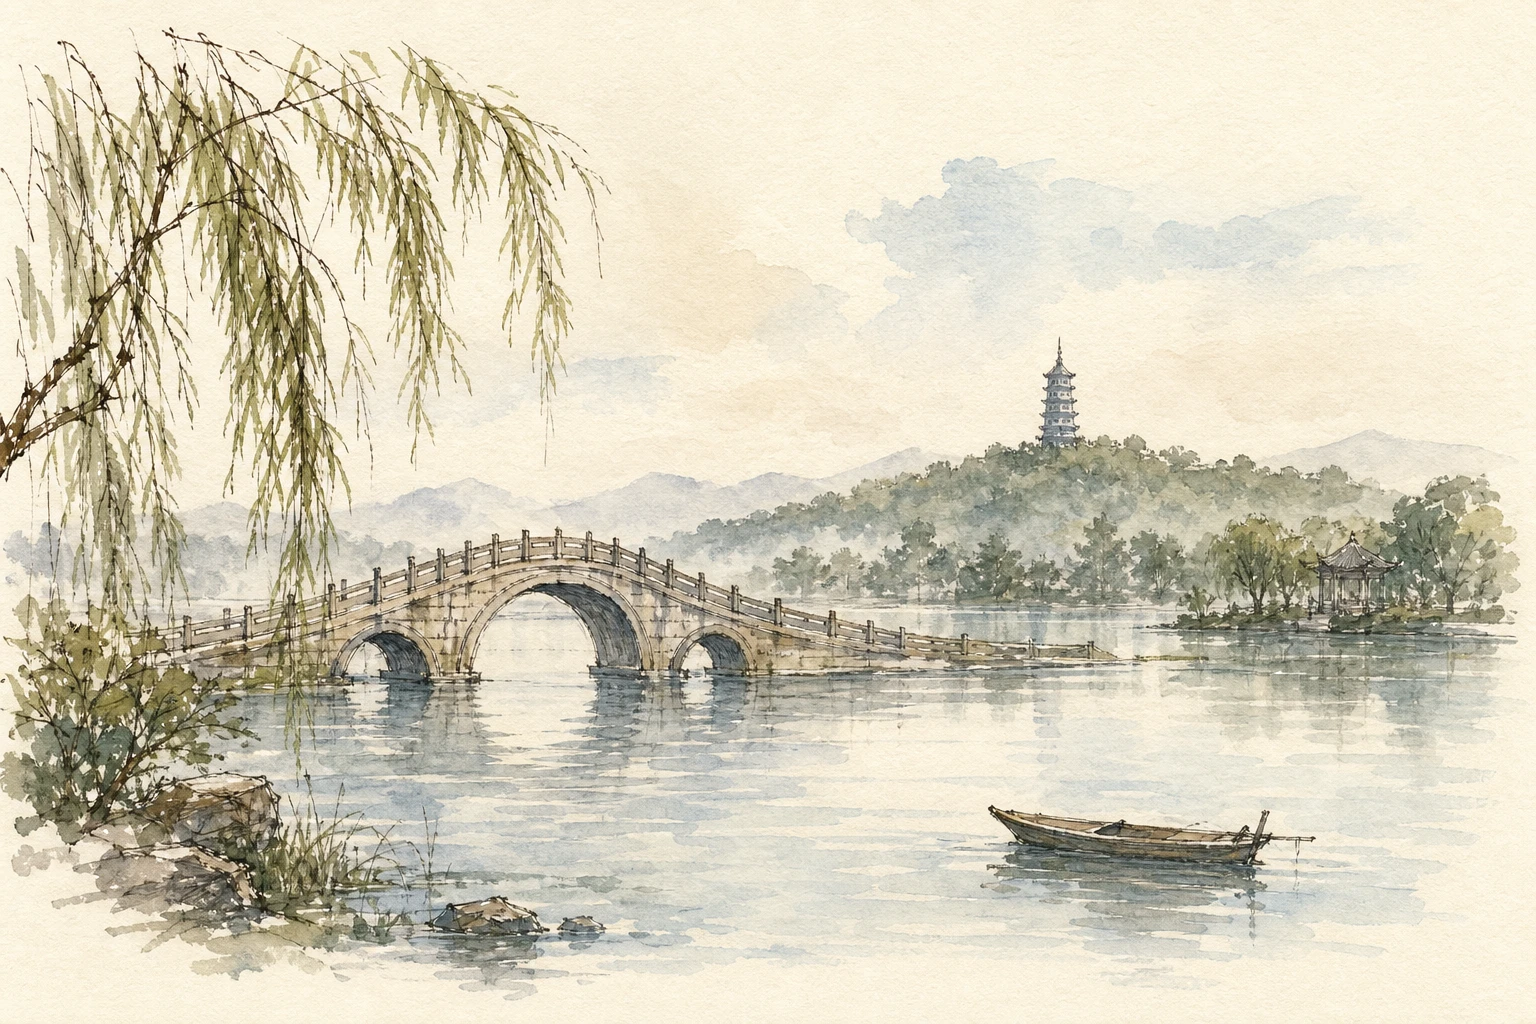
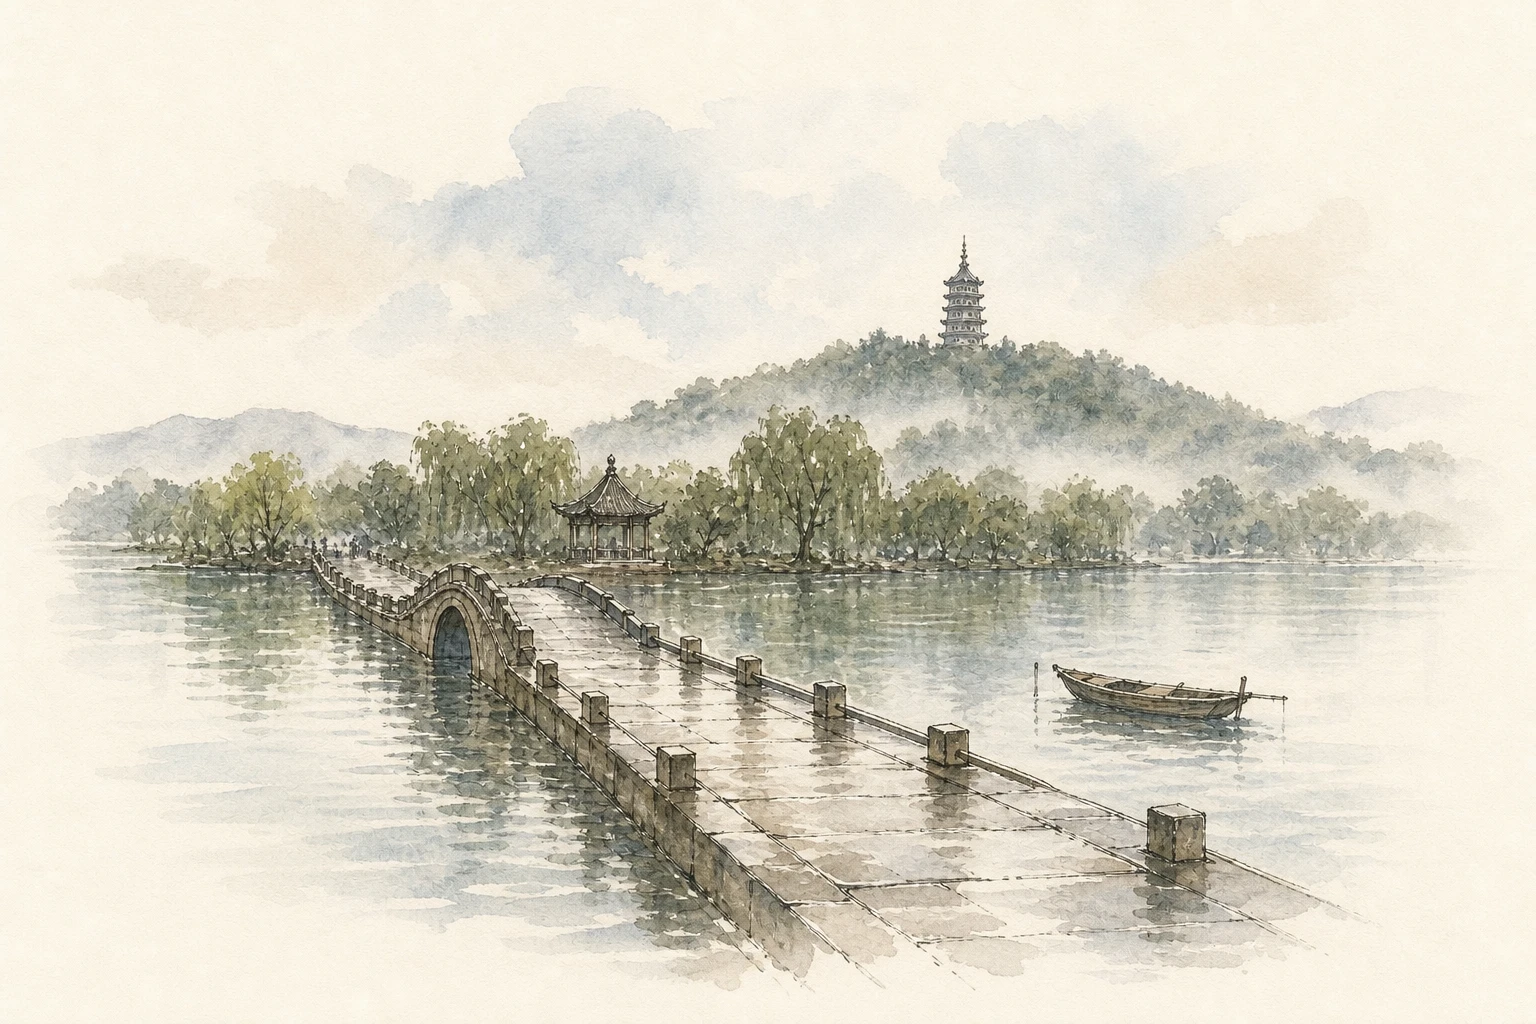
M44: 转档 batch 1 并完成 batch 2 初筛

diff --git a/.agent/state.md b/.agent/state.md
@@ -81,7 +81,8 @@
 2. ~~A6·补画复审~~ **A6 全批收官**（2026-07-20）｜用户终审补画：东北=v5、港澳=v5，cc 已转 q90 webp 补齐——`picked/ink/` 现 16 张母版齐备（方图 3 + 题头 9 + 装饰 3 + style-ref 风格锚点），全批零缺口，M46 资产接入解锁全量。同日拍板并入 design「装饰位画布契约」修订：九区题头槽位=原生 2:1 展示**不做浅裁**（槽位迁就画）；同位和谐靠接入时逐资产 focal 微调（scale/object-position，M42 配置）；装饰件移出槽位契约=自由浮动点缀、逐件定位画幅不拘 [cc]
 3. ~~M46 — 皮肤：山水~~ **已于 2026-07-20 落地并 push**，见 ✅ 条目——chrome（token+字体）+ M42 插画接入管线 + 资产接入一次做完 [cc]
 4. M44·分批铺量 — 目的地插画共享集 [R1 · S2] → codex 长期分批（2026-07-20 用户点名启动，从 P2 提前；与皮肤/代码轨道全程零冲突）｜完整约束见 illustration-brief「M44 目的地插画分批铺量」（batch 1=10 城试跑、此后 20 城/批、每批停下等用户挑版）。~~batch 0 gating~~ **batch 0 已完成（2026-07-20）**：用户终审=杭州v2/敦煌v2/三亚v1，cc 转档 `picked/dest/` 基准三张、原件迁 `raw/dest/`、水彩锁冻结晋升 design「已冻结风格锁」；同日用户修订口径=**每城只画 1 版**（✗ 的带意见补 1 版，不出双版）已入工单。**同日晚用户复议共享集画风、batch 1 挂起 🌫️**：四个心头好皮肤（水墨/水彩/青花/doodle，doodle/画报/马克笔整页 mock 已入 raw/）三素一甜，现行绘本水彩锁只服务甜端；A/B 比稿当日闭环：codex 按候选 B（墨线淡彩旅行速写）重画三样张，**用户看图终审 B 胜出**（四皮肤纸底预览省略——用户直接拍板）；cc 初筛（三张同手零跳戏、安全区合规、驼队小人属远景点缀豁免）后转 `picked/dest/` 新基准三张，B 锁冻结晋升 design「已冻结风格锁·目的地共享集」，原绘本水彩锁降为手帐皮肤件专用。**batch 1 解锁可开**；画不等接入，接入等 M42（随 M46）落地后按批换上 [cc]
-   - **Batch 1 已完成生成与初筛，等待用户挑版**（2026-07-20）：按 `data-a.json` 前 10 个城市记录生成 `hangzhou`→`gouqi-island` 各 1 版，三张 `picked/dest/` 基准作共同画风参照；10 张均为 1536×1024 RGB PNG，QA 总览=`raw/dest/qa/qa-m44-b1.png`（首行三基准），记录=`raw/dest/qa/qa-m44-notes.md`。初筛 9 通过、1 淘汰：`nanjing` 因城门匾额出现文字样符号触发红线，留待用户意见后并入下一批补 1 版；全批并排未见“换画师”漂移。未启动 batch 2、未转 `picked/dest/`、未接入代码。 [codex]
+   - **Batch 1 已终审转档**（2026-07-20）：用户明确 10 张全部通过（含初筛曾因匾额文字淘汰的 `nanjing`）；杭州采用本批 `v3` 新版替换既有母版，其余 9 张一起转 q90 WebP 入 `picked/dest/`。用户指出杭州已在 picked 却被重复生成，工单新增“开批去重”硬闸：picked 已存在 cityid 永久跳过、不占批次名额。 [codex]
+   - **Batch 2 已完成生成与初筛，等待用户挑版**（2026-07-20）：去重扫描后按 `data-a.json` 顺序生成下一组 20 个未入选城市，范围 `dongji-island`→`chongming`，均为 1536×1024 RGB PNG；QA 总览=`raw/dest/qa/qa-m44-b2.png`（首行三基准），记录追加到 `raw/dest/qa/qa-m44-notes.md`。初筛 17 通过、3 淘汰：`xiandu` 主峰越出垂直中央 2/3 安全区，`qiandaohu` 船身与 `huaian` 城门匾额出现疑似文字样标记；全批并排未见“换画师”漂移。未启动 batch 3、未转本批候选入 picked、未接入代码。 [codex]
 5. M51 — 共享集皮肤适配滤镜 [R1 · S1] → sonnet · medium｜2026-07-20 用户提出：换肤时对目的地图按皮肤调色调/饱和度（青花=灰度→钴蓝），理论上不用重画只需代码。cc 确认可行，机制入 design（「共享集皮肤适配滤镜」+ 注册表 M51）。**单独立项不并入 M46**（用户明确：M46 已在途，途中不加活）；前置=M46 落地，届时滤镜挂其图位/皮肤声明上，几十行小改 [cc]
 6. **M52 — 山水皮肤一致性精修 [R2 · S2] → fable · high（用户单开会话执行，下一个代码模块）**｜2026-07-20 用户验收 M46 线上效果打回：太丑——emoji 图标（飞机/分享/扭蛋）与皮肤不搭、边框太直、卡片仍是奶油色块+硬投影、CSS「印」字块难看。cc 诊断根因=M46 只做了 token 等值换色，**形态语言（投影/按压/图标/边线）字面量写死在视图 CSS、token 只管色**，含卡片区域色投影 `--rc`。整改工单=`.agent/m52-ink-polish-brief.md`（五层：投影 token 化→色块退场→SVG 图标→印章+手绘边线→mock 细扫，含逐文件行号）。spec 见 design M52。**M45+M46 的 codex review 改到 M52 落地后一轮跑掉**（避免 review 完立刻又改同一批文件）；默认皮肤拍板同样顺延到 M52 终审时 [cc]
 

diff --git a/.agent/illustration-brief.md b/.agent/illustration-brief.md
@@ -170,6 +170,7 @@ cartoon outlines.
 **分批节奏（用户口径：10~20 张/批，方便质检）**：
 
 - **batch 1 = 10 城试跑**（校准命中率），此后 **20 城/批**；顺序=按 data 六区文件顺序推进，每批记录起止 id
+- **开批去重（硬闸）**：按上述顺序取记录前，先扫描 `picked/dest/dest-<cityid>.webp`；已存在即视为用户通过版，**永久跳过、不生成、不占本批名额**，继续向后补足本批 20 个未入选 cityid。QA notes 须记录本批起止 id 与跳过清单；不得因记录仍出现在 data 文件里而重画
 - 每城**只画 1 版**（用户终审口径 2026-07-20），不出双版挑选；用户打 ✗ 的城带其意见**补画 1 版**并入下一批
 - **每批流程**：①逐张过初筛清单 → ②出该批 QA 总览网格图 `raw/dest/qa/qa-m44-b{n}.png`（**基准三张放首行**，供并排防漂移比对）→ ③初筛记录追加到 `raw/dest/qa/qa-m44-notes.md`（批号/起止/淘汰与理由/谨慎候选）→ ④停下等用户挑版 → ⑤cc 把通过版转 q90 webp 入 `picked/dest/`（命名去 `-v{n}`）
 - **防漂移**：任一批与基准并排出现「换画师」感即停批报告，不硬画完；模型/参数换代必须先重画基准三张之一比对，通过才继续